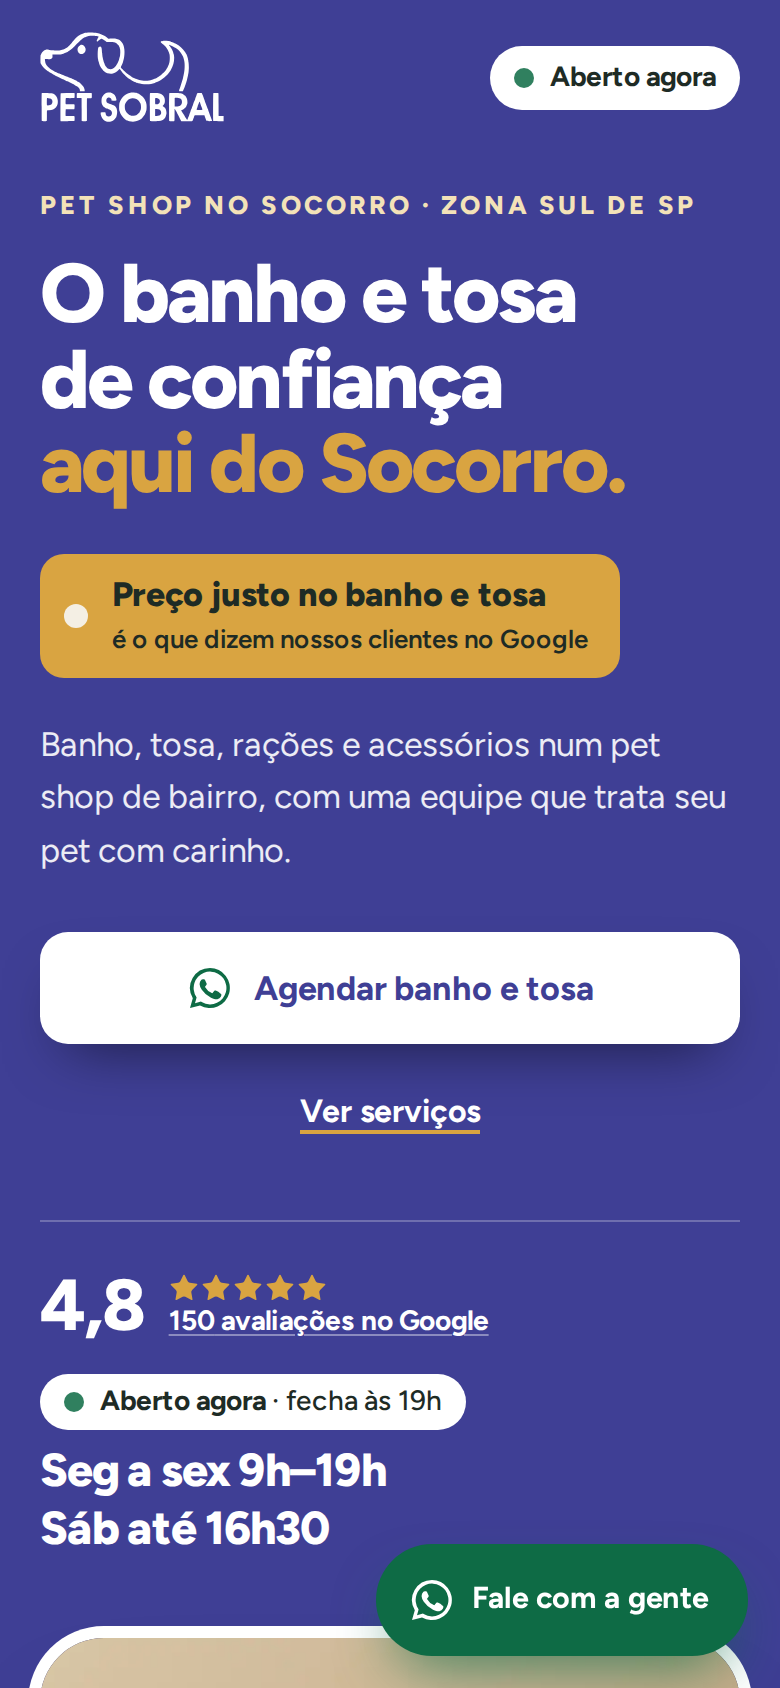
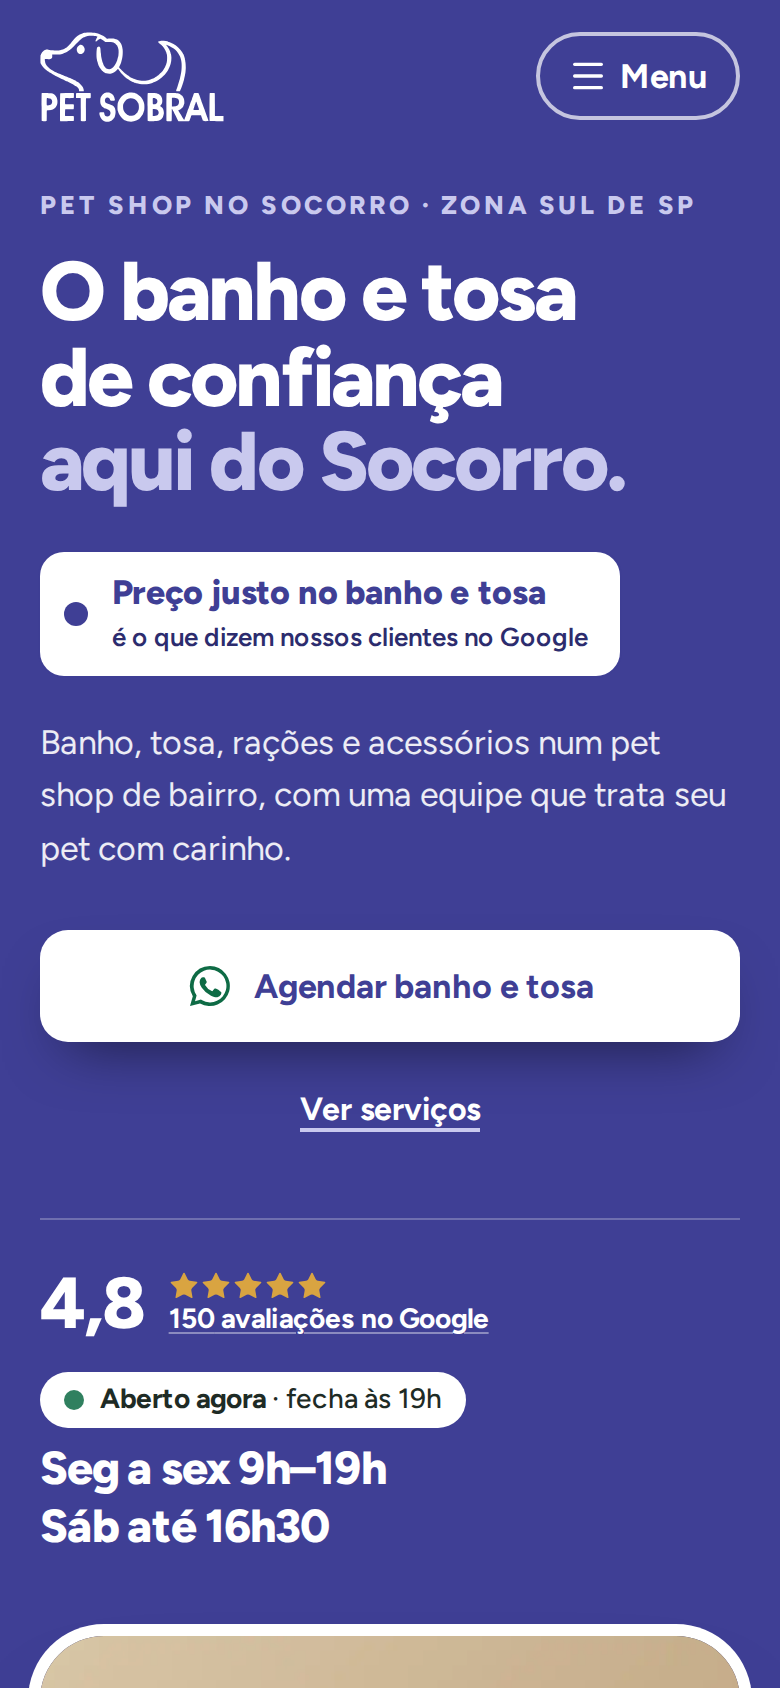
feat: só cores da marca (azul-claro de destaque, selo branco); mostarda removida dos tokens
- "aqui do Socorro." e destaques em #c9c9ee (5,55:1 sobre #3f3f95, AA em qualquer tamanho)
- Selo "Preço justo", pílulas e círculo da nota: branco com texto azul
- Estrelas seguem amarelas (token estrela, só estrelas e aviso de fechamento)
- Tokens mostarda/mostarda-claro removidos; OG refeita; contrastes revalidados

Claude-Session: https://claude.ai/code/session_012iLowF5NLjDGbxtVCD5yW7

diff --git a/src/components/sections/Hero.tsx b/src/components/sections/Hero.tsx
@@ -19,14 +19,14 @@ export function Hero() {
       <div className="container-site relative pt-6 pb-20 md:pt-10 lg:pb-28">
         <div className="grid items-center gap-10 lg:grid-cols-[1.05fr_0.95fr] lg:gap-14">
           <div>
-            <p className="mb-3 text-[0.8rem] font-extrabold uppercase tracking-[0.14em] text-mostarda-claro sm:text-sm">
+            <p className="mb-3 text-[0.8rem] font-extrabold uppercase tracking-[0.14em] text-destaque sm:text-sm">
               Pet shop no Socorro · zona sul de SP
             </p>
             <h1
               id="hero-titulo"
               className="font-display text-[2.6rem] leading-[1.02] font-extrabold tracking-[-0.035em] text-balance sm:text-5xl lg:text-[4.4rem]"
             >
-              O banho e tosa de confiança <span className="text-mostarda">aqui do Socorro.</span>
+              O banho e tosa de confiança <span className="text-destaque">aqui do Socorro.</span>
             </h1>
 
             <SeloPrecoJusto className="mt-6" />
@@ -57,7 +57,7 @@ export function Hero() {
               >
                 <span className="font-display text-4xl font-extrabold leading-none">{notaFormatada}</span>
                 <span className="text-sm leading-tight">
-                  <span className="flex text-mostarda" aria-hidden="true">
+                  <span className="flex text-estrela" aria-hidden="true">
                     {Array.from({ length: 5 }, (_, i) => (
                       <Star key={i} className="size-4 fill-current" strokeWidth={0} />
                     ))}
@@ -72,7 +72,7 @@ export function Hero() {
                 <StatusLoja className="mb-1.5 rounded-full bg-white px-3 py-1 text-tinta" />
                 <p className="font-display text-[1.45rem] leading-tight font-extrabold md:text-[1.6rem]">
                   <span className="block whitespace-nowrap xl:inline">Seg a sex 9h–19h</span>
-                  <span className="hidden text-mostarda xl:inline" aria-hidden="true">
+                  <span className="hidden text-destaque xl:inline" aria-hidden="true">
                     {' '}
                     ·{' '}
                   </span>
@@ -92,7 +92,7 @@ export function Hero() {
               target="_blank"
               rel="noopener"
               aria-label={`Nota ${notaFormatada} no Google, ${business.google.avaliacoes} avaliações (abre em nova aba)`}
-              className="absolute -bottom-6 -left-3 grid size-28 -rotate-6 place-items-center rounded-full bg-mostarda text-center text-tinta shadow-[0_12px_28px_-14px_rgb(0_0_0/0.7)] ring-4 ring-white transition-transform hover:rotate-0 md:size-32"
+              className="absolute -bottom-6 -left-3 grid size-28 -rotate-6 place-items-center rounded-full bg-white text-center text-marca shadow-[0_12px_28px_-14px_rgb(0_0_0/0.7)] ring-4 ring-destaque transition-transform hover:rotate-0 md:size-32"
             >
               <span aria-hidden="true" className="leading-tight">
                 <span className="block font-display text-3xl font-extrabold md:text-[2.1rem]">{notaFormatada}★</span>

diff --git a/src/components/sections/Condominios.tsx b/src/components/sections/Condominios.tsx
@@ -16,19 +16,19 @@ export function Condominios() {
     <section id={secoes.condominios.id} aria-labelledby="condominios-titulo" className="bg-marca-escuro py-16 text-white md:py-24">
       <div className="container-site grid items-center gap-10 lg:grid-cols-[1.1fr_0.9fr] lg:gap-16 [&>*]:min-w-0">
         <div>
-          <p className="inline-flex items-center gap-2 rounded-full bg-mostarda px-3.5 py-1.5 text-sm font-bold text-tinta">
+          <p className="inline-flex items-center gap-2 rounded-full bg-white px-3.5 py-1.5 text-sm font-bold text-marca">
             <Building2 aria-hidden="true" className="size-4" strokeWidth={2} />
             {secoes.condominios.rotulo}
           </p>
           <h2 id="condominios-titulo" className="mt-5 font-display text-[2.1rem] leading-[1.08] font-extrabold tracking-[-0.03em] text-balance md:text-5xl">
-            Mora em condomínio aqui na região? <em className="not-italic text-mostarda">A gente atende.</em>
+            Mora em condomínio aqui na região? <em className="not-italic text-destaque">A gente atende.</em>
           </h2>
           <p className="mt-5 text-lg text-white/90">
             O Pet Sobral atende condomínios da região. Se você é síndico, trabalha na administradora ou é morador e quer levar essa
             facilidade pro seu prédio, chama a gente no WhatsApp pra conversar.
           </p>
           <div className="mt-6 rounded-xl border border-white/25 p-4 text-sm">
-            <p className="mb-2 font-bold text-mostarda">Como funciona</p>
+            <p className="mb-2 font-bold text-destaque">Como funciona</p>
             <Confirmar neutro="Para saber como funciona o atendimento no seu condomínio, fale com a gente pelo WhatsApp.">
               [CONFIRMAR COM O CLIENTE: como funciona o atendimento a condomínios, quais condomínios/bairros entram, frequência, se há
               busca e leva, se há condição especial]

diff --git a/src/components/SeloPrecoJusto.tsx b/src/components/SeloPrecoJusto.tsx
@@ -1,22 +1,21 @@
 import { cn } from '@/lib/utils'
 
 /**
- * Selo "Preço justo no banho e tosa" — sempre atribuído aos clientes.
- * Nunca usar "mais barato" / "menor preço" / comparação com concorrentes.
+ * Selo "Preço justo no banho e tosa": cartão branco com texto azul (cores do logo).
+ * Sempre atribuído aos clientes. Nunca usar "mais barato" / "menor preço" / comparação com concorrentes.
  */
-export function SeloPrecoJusto({ className, claro = false }: { className?: string; claro?: boolean }) {
+export function SeloPrecoJusto({ className }: { className?: string }) {
   return (
     <p
       className={cn(
-        'relative inline-flex max-w-full items-center gap-3 rounded-xl py-2.5 pr-4 pl-3',
-        claro ? 'bg-creme text-tinta' : 'bg-mostarda text-tinta',
+        'relative inline-flex max-w-full items-center gap-3 rounded-xl bg-white py-2.5 pr-4 pl-3 text-marca ring-1 ring-marca/15',
         className,
       )}
     >
-      <span aria-hidden="true" className={cn('size-3 shrink-0 rounded-full', claro ? 'bg-mostarda' : 'bg-creme')} />
+      <span aria-hidden="true" className="size-3 shrink-0 rounded-full bg-marca" />
       <span className="leading-tight">
         <strong className="block text-[1.0625rem] font-extrabold tracking-[-0.005em]">Preço justo no banho e tosa</strong>
-        <span className="text-[0.8125rem] font-semibold">é o que dizem nossos clientes no Google</span>
+        <span className="text-[0.8125rem] font-semibold text-marca-escuro">é o que dizem nossos clientes no Google</span>
       </span>
     </p>
   )

diff --git a/src/components/sections/Rodape.tsx b/src/components/sections/Rodape.tsx
@@ -12,13 +12,13 @@ export function Rodape() {
         <div>
           <Logo variante="branco" className="w-40" />
           <p className="mt-4 max-w-xs text-creme/95">Pet shop, banho e tosa no Socorro, zona sul de São Paulo.</p>
-          <p className="mt-5 inline-flex rounded-full bg-mostarda px-3.5 py-1.5 text-sm font-bold text-tinta">
+          <p className="mt-5 inline-flex rounded-full bg-white px-3.5 py-1.5 text-sm font-bold text-marca">
             Ponto de devolução do Mercado Livre
           </p>
         </div>
 
         <div>
-          <h2 className="font-display text-xl font-extrabold text-mostarda-claro">Contato</h2>
+          <h2 className="font-display text-xl font-extrabold text-destaque">Contato</h2>
           <dl className="mt-3 space-y-3">
             <div>
               <dt className="text-sm font-bold uppercase tracking-wider text-creme/90">Endereço</dt>
@@ -45,7 +45,7 @@ export function Rodape() {
         </div>
 
         <div>
-          <h2 className="font-display text-xl font-extrabold text-mostarda-claro">Navegue</h2>
+          <h2 className="font-display text-xl font-extrabold text-destaque">Navegue</h2>
           <ul className="mt-2">
             {ordemSecoes.map((l) => (
               <li key={l.id}>

diff --git a/src/components/sections/Localizacao.tsx b/src/components/sections/Localizacao.tsx
@@ -92,7 +92,7 @@ export function Localizacao() {
                     <tr key={l.rotulo} className={cn('border-t border-border first:border-t-0', ehHoje && 'font-bold text-marca-escuro')}>
                       <th scope="row" className="py-2.5 font-semibold">
                         {l.rotulo}
-                        {ehHoje && <span className="ml-2 rounded-full bg-mostarda px-2 py-0.5 text-xs text-tinta">hoje</span>}
+                        {ehHoje && <span className="ml-2 rounded-full bg-marca px-2 py-0.5 text-xs text-white">hoje</span>}
                       </th>
                       <td className="py-2.5 text-right font-display text-lg font-extrabold">{l.valor}</td>
                     </tr>
@@ -102,7 +102,7 @@ export function Localizacao() {
             </table>
           </div>
 
-          <p className="mt-5 flex items-start gap-3 rounded-xl bg-mostarda-claro px-4 py-3">
+          <p className="mt-5 flex items-start gap-3 rounded-xl bg-marca-claro px-4 py-3">
             <Package aria-hidden="true" className="mt-0.5 size-5 shrink-0" strokeWidth={1.75} />
             <span>
               <strong>Ponto de devolução do Mercado Livre.</strong> É só vir no horário da loja.

diff --git a/src/index.css b/src/index.css
@@ -4,7 +4,7 @@
 
 /*
  * Identidade do Pet Sobral (a partir do logo real): azul #3f3f95 dominante com branco,
- * sans pesada nos títulos, o cachorro em traço como elemento gráfico; mostarda como acento
+ * sans pesada nos títulos, o cachorro em traço como elemento gráfico; azul-claro de destaque; amarelo só nas estrelas
  * e verde só no WhatsApp.
  * Contrastes (WCAG) verificados em scripts/contraste.mjs.
  */
@@ -18,8 +18,10 @@
   --color-marca: #3f3f95;
   --color-marca-escuro: #2c2c6e;
   --color-marca-claro: #e3e3f3;
-  --color-mostarda: #d9a441;
-  --color-mostarda-claro: #f3e2b8;
+  /* Destaque = azul-claro derivado da marca (5,55:1 sobre #3f3f95). Se o letreiro tiver outra cor, trocar só aqui. */
+  --color-destaque: #c9c9ee;
+  /* Amarelo SÓ para estrelas de avaliação e o aviso "fecha em breve" (convenção). Não usar como cor de marca. */
+  --color-estrela: #d9a441;
   --color-zap: #0e6b45;
   --color-zap-escuro: #0a5537;
 
@@ -85,7 +87,7 @@
     border-radius: 6px;
   }
   ::selection {
-    background: var(--color-mostarda-claro);
+    background: var(--color-marca-claro);
   }
   @media (prefers-reduced-motion: reduce) {
     html {

diff --git a/scripts/og/og.html b/scripts/og/og.html
@@ -7,11 +7,11 @@ body{width:1200px;height:630px;background:#3f3f95;color:#fff;font-family:S;displ
 .f{font-family:S;font-weight:800;letter-spacing:-.035em}
 .logo{width:170px;height:auto;display:block}
 h1{font-size:66px;line-height:1.02;font-weight:800;letter-spacing:-.02em;margin-top:30px}
-h1 em{color:#d9a441;font-style:normal}
+h1 em{color:#c9c9ee;font-style:normal}
 ._x{}
-.selo{color:#1e2b25;display:inline-flex;align-items:center;gap:12px;background:#d9a441;border-radius:14px;padding:12px 20px 12px 14px;margin-top:30px;font-weight:800;font-size:24px}
-.selo i{width:14px;height:14px;border-radius:50%;background:#f4efe4}
-.info{margin-top:26px;font-size:22px;font-weight:700;color:#f3e2b8}
+.selo{color:#3f3f95;display:inline-flex;align-items:center;gap:12px;background:#fff;border-radius:14px;padding:12px 20px 12px 14px;margin-top:30px;font-weight:800;font-size:24px}
+.selo i{width:14px;height:14px;border-radius:50%;background:#3f3f95}
+.info{margin-top:26px;font-size:22px;font-weight:700;color:#c9c9ee}
 .arco{position:relative;height:518px}
 .arco div{position:absolute;inset:0;border-radius:32px;box-shadow:0 0 0 8px #fff}
 .fundo{display:none}

diff --git a/src/components/ui/button.tsx b/src/components/ui/button.tsx
@@ -13,8 +13,8 @@ const buttonVariants = cva(
         contorno: 'border-2 border-tinta/80 bg-transparent text-tinta hover:bg-tinta hover:text-creme',
         claro: 'bg-creme text-marca-escuro hover:bg-cartao',
         branco: 'bg-white text-marca hover:bg-creme shadow-[0_14px_30px_-14px_rgb(0_0_0/0.6)]',
-        linkClaro: 'text-white underline decoration-2 decoration-mostarda underline-offset-4 hover:decoration-white',
-        link: 'text-marca underline decoration-2 underline-offset-4 hover:text-marca-escuro hover:decoration-mostarda',
+        linkClaro: 'text-white underline decoration-2 decoration-destaque underline-offset-4 hover:decoration-white',
+        link: 'text-marca underline decoration-2 underline-offset-4 hover:text-marca-escuro hover:decoration-destaque',
       },
       size: {
         lg: 'min-h-14 rounded-botao px-6 text-[1.0625rem]',

diff --git a/src/components/sections/Agendamento.tsx b/src/components/sections/Agendamento.tsx
@@ -216,7 +216,7 @@ export function Agendamento() {
             {['Escolha o serviço e conte sobre o pet', 'Diga o dia e o período que prefere', 'Envie pelo WhatsApp e aguarde a confirmação'].map(
               (t, i) => (
                 <li key={t} className="flex items-center gap-4">
-                  <span className="grid size-10 shrink-0 place-items-center rounded-full bg-mostarda font-display text-lg font-extrabold">
+                  <span className="grid size-10 shrink-0 place-items-center rounded-full bg-marca text-white font-display text-lg font-extrabold">
                     {i + 1}
                   </span>
                   <span className="font-semibold">{t}</span>

diff --git a/src/components/sections/PorQue.tsx b/src/components/sections/PorQue.tsx
@@ -39,7 +39,7 @@ export function PorQue() {
             <Foto imagem={imagens.carinho} sizes="(min-width: 1024px) 28rem, 90vw" />
           </div>
           <p className="absolute right-0 -bottom-4 max-w-[15rem] rounded-2xl bg-marca px-5 py-4 text-white shadow-lg ring-4 ring-white sm:-right-4">
-            <span className="block font-display text-3xl font-extrabold text-mostarda">{notaFormatada} no Google</span>
+            <span className="block font-display text-3xl font-extrabold text-destaque">{notaFormatada} no Google</span>
             <span className="text-sm">com {business.google.avaliacoes} avaliações de clientes da região</span>
           </p>
         </div>

diff --git a/src/components/sections/Depoimentos.tsx b/src/components/sections/Depoimentos.tsx
@@ -28,7 +28,7 @@ function CardPlaceholder({ tema }: { tema: string }) {
 function CardTema({ tema }: { tema: string }) {
   return (
     <div className="flex h-full flex-col rounded-cartao bg-white p-6 ring-1 ring-border">
-      <span aria-hidden="true" className="size-3 rounded-full bg-mostarda" />
+      <span aria-hidden="true" className="size-3 rounded-full bg-marca" />
       <p className="mt-4 text-sm font-bold uppercase tracking-[0.12em] text-marca">Elogio frequente</p>
       <p className="mt-1 font-display text-2xl leading-snug font-extrabold first-letter:uppercase">{tema}</p>
     </div>

diff --git a/src/components/Confirmar.tsx b/src/components/Confirmar.tsx
@@ -35,7 +35,7 @@ export function AvisoRevisao() {
   const revisao = useModoRevisao()
   if (!revisao) return null
   return (
-    <div role="status" className="sticky top-0 z-[55] bg-mostarda px-4 py-2 text-center text-sm font-bold text-tinta">
+    <div role="status" className="sticky top-0 z-[55] bg-destaque px-4 py-2 text-center text-sm font-bold text-marca-escuro">
       Modo revisão: os trechos listrados dependem de confirmação com o Pet Sobral. Sem <code>?revisao=1</code>, o site mostra
       só textos confirmados.
     </div>
